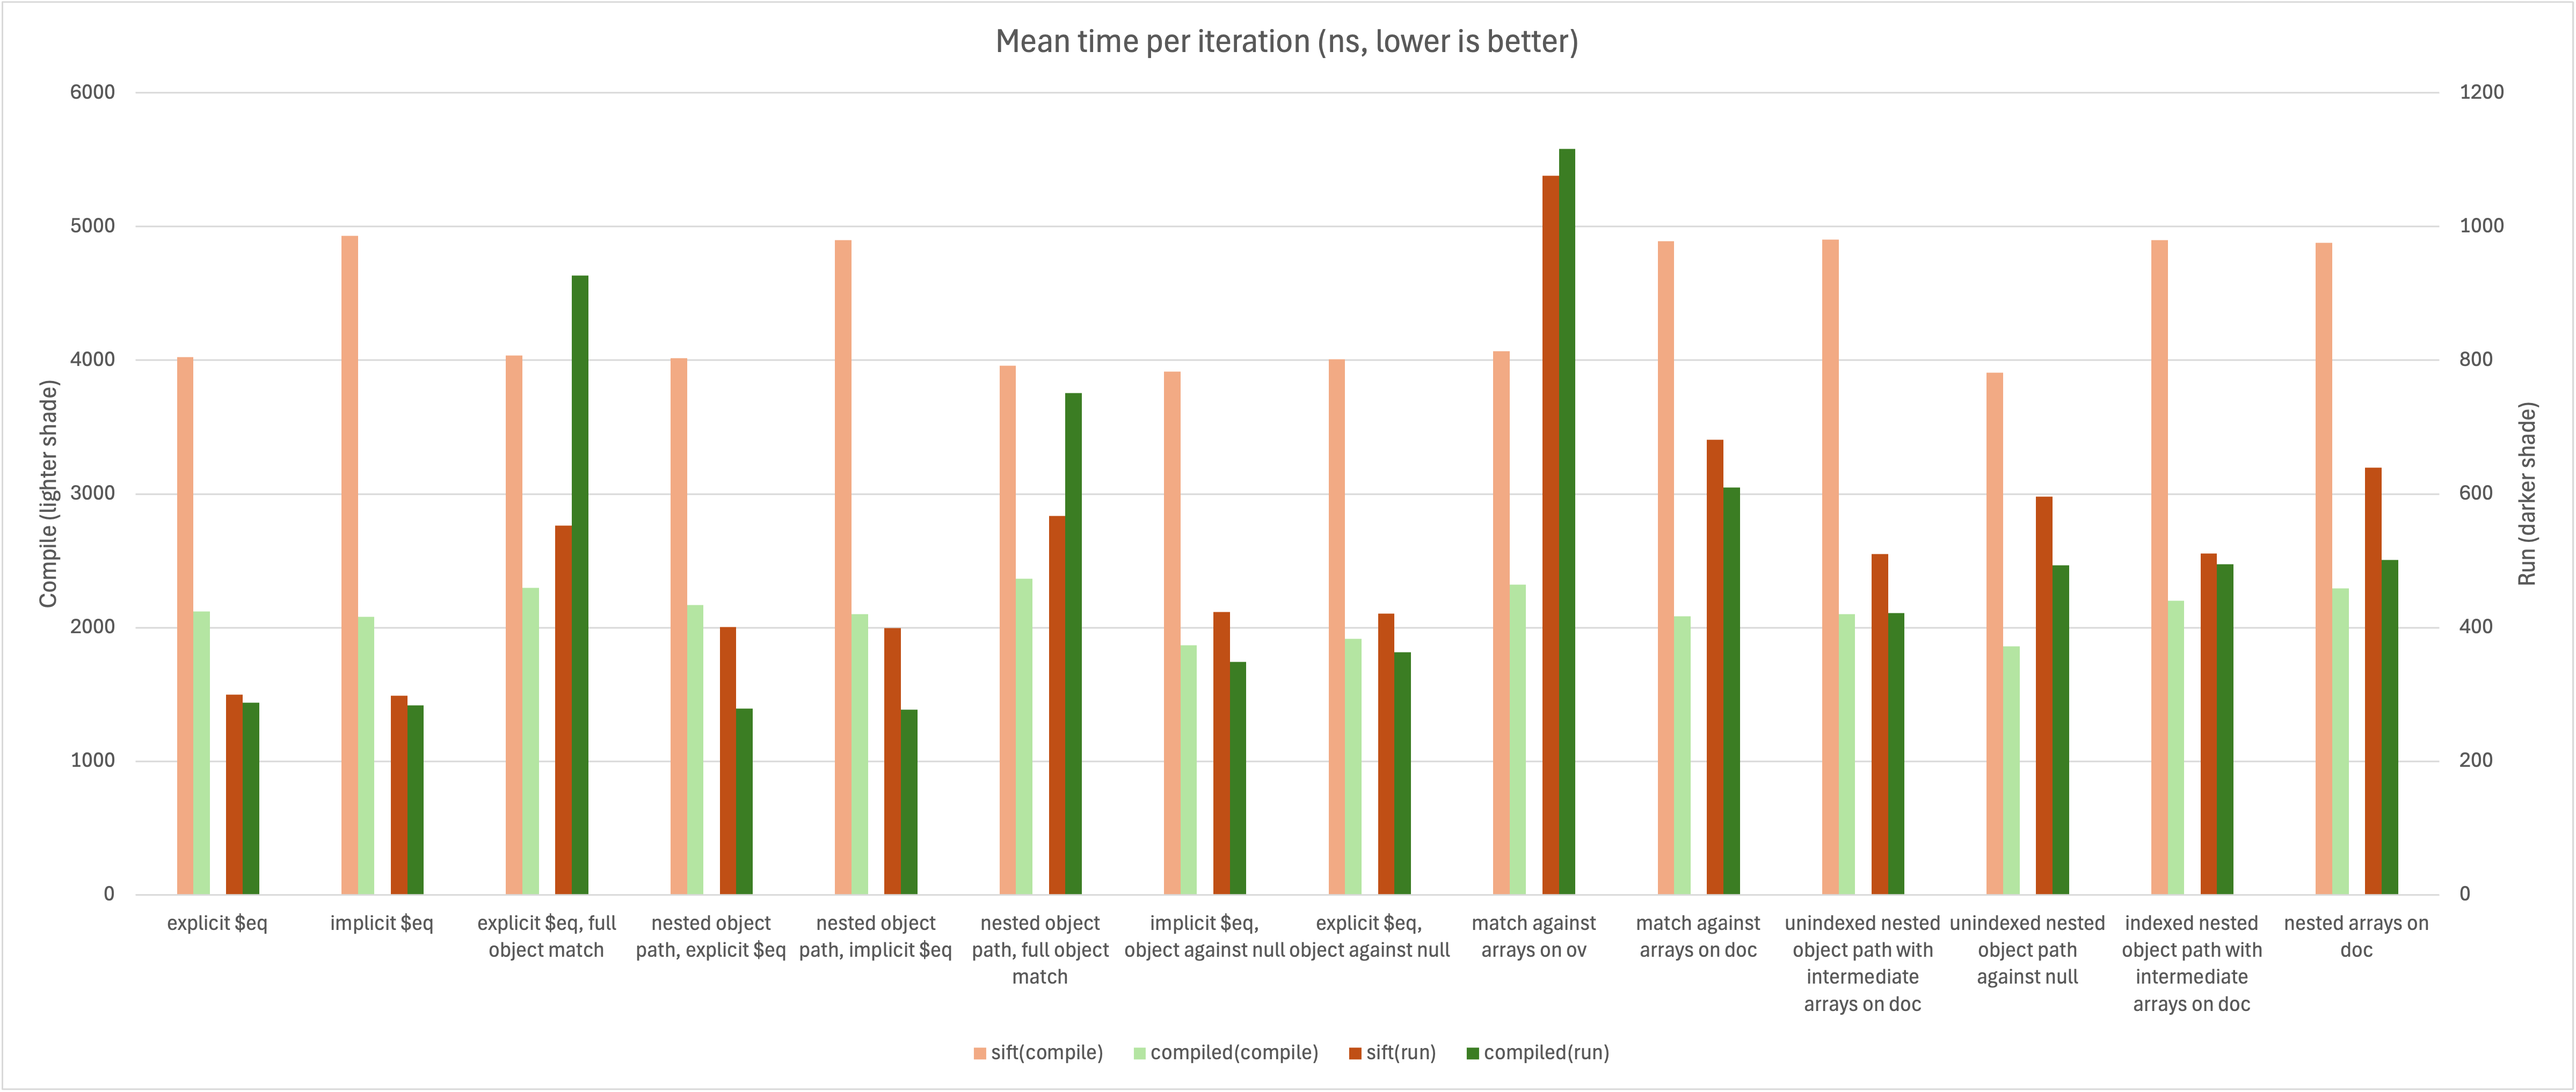
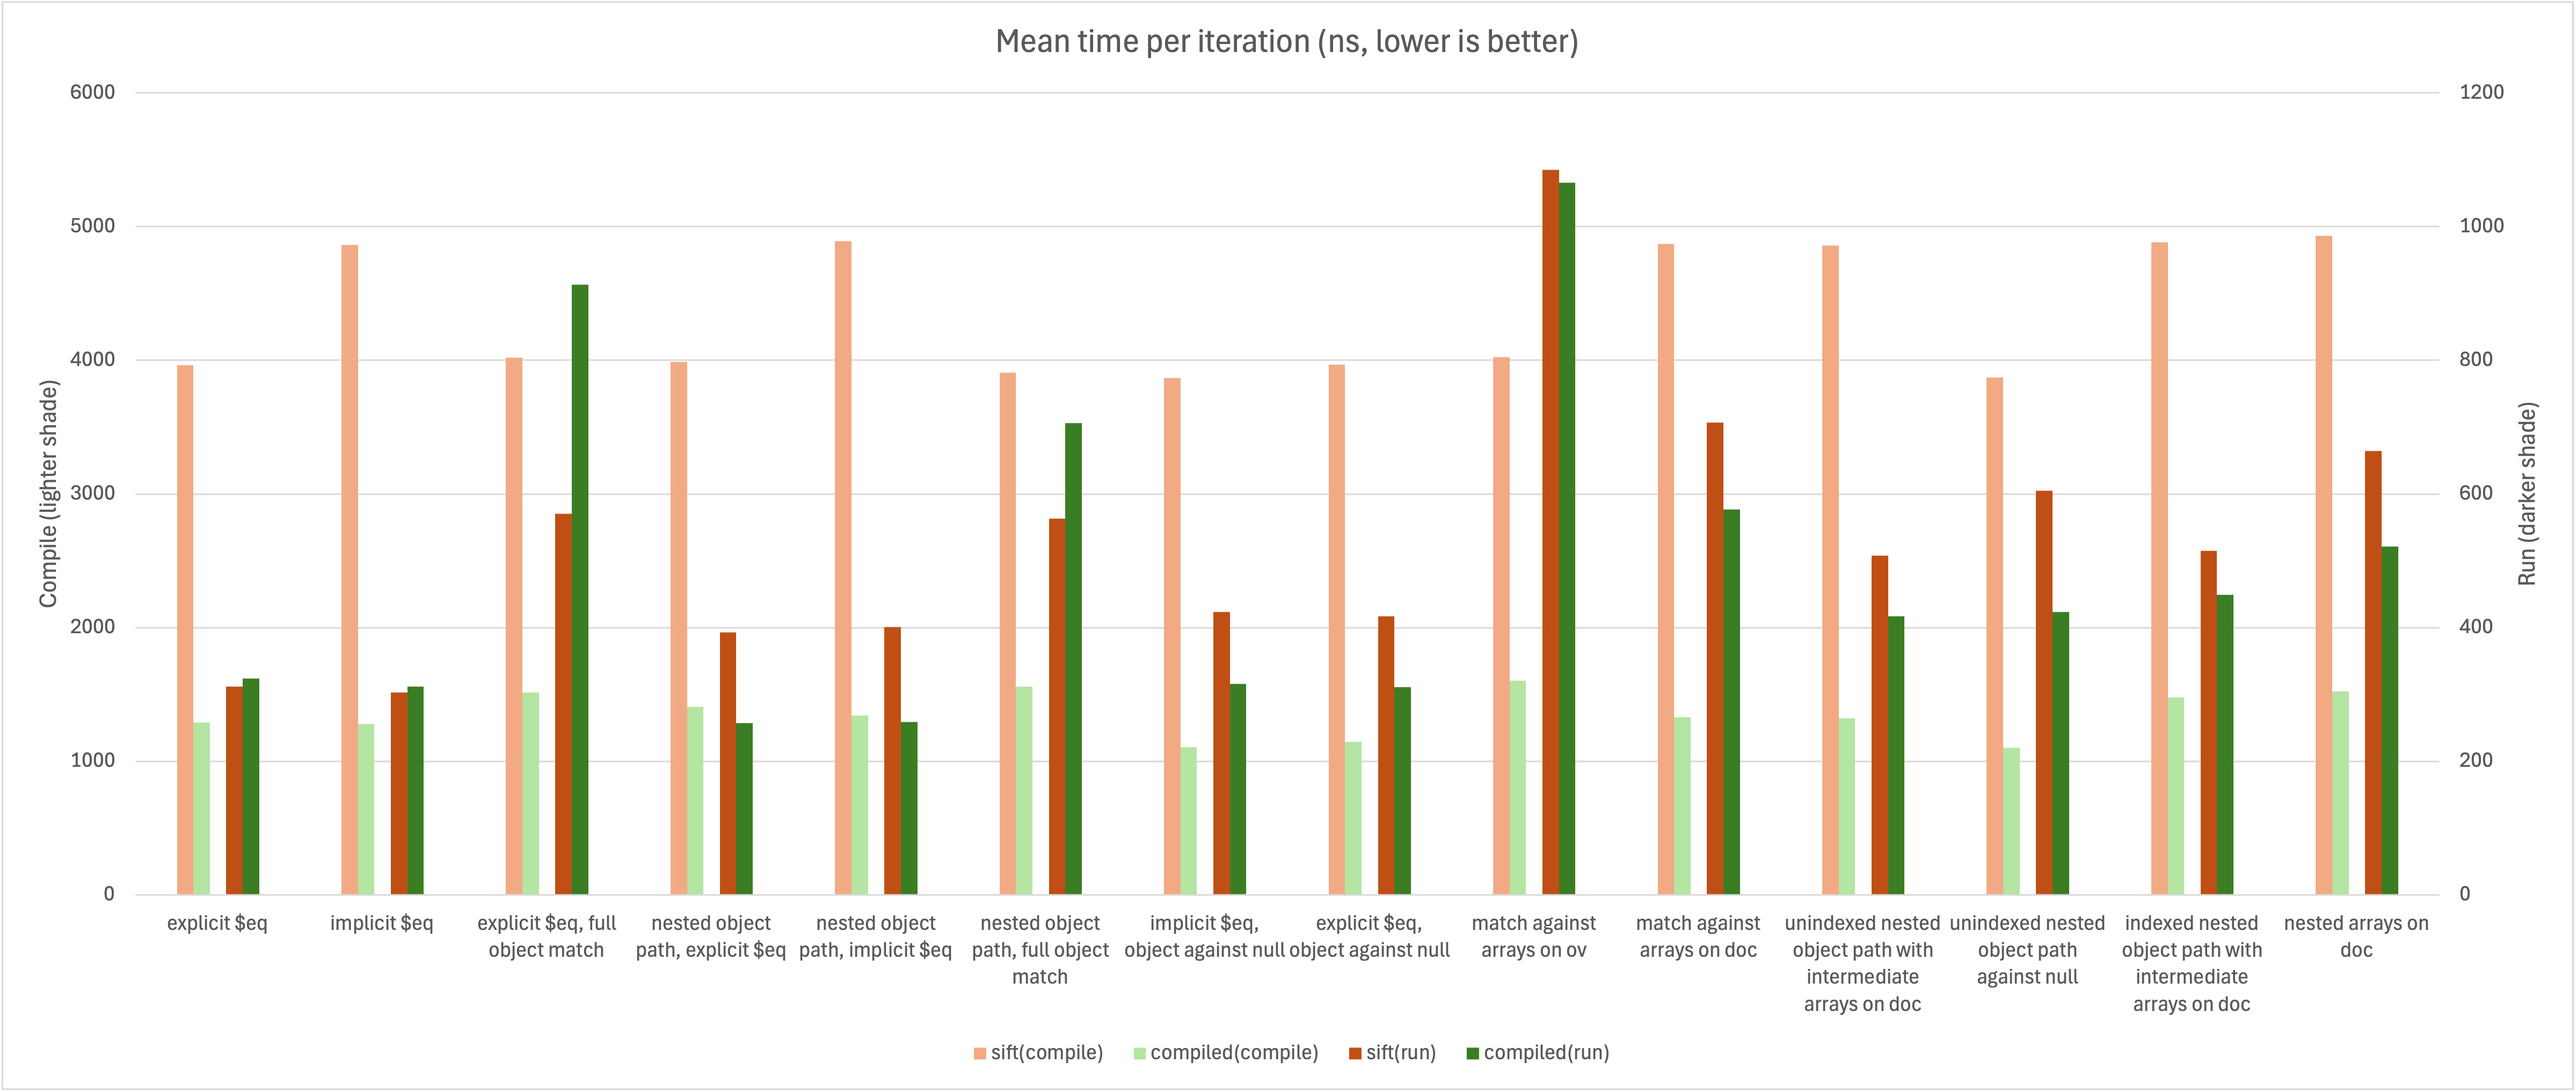
feat: faster compile with global deep compare

diff --git a/src/compiler.ts b/src/compiler.ts
@@ -29,8 +29,15 @@ import { deepCompare } from "./utils";
 /** Symbols */
 const docSym = "doc";
 const useStrictStr = '"use strict"; ';
-const deepCompareStr = deepCompare.toString() + "; ";
-const header = useStrictStr + deepCompareStr;
+if (typeof (globalThis as any).siftDeepCmp === "undefined") {
+	Object.defineProperty(globalThis, "siftDeepCmp", {
+		value: deepCompare,
+		enumerable: false,
+		writable: false,
+		configurable: false,
+	});
+}
+const header = useStrictStr;
 
 interface CompilerOptions {
 	/** Debug mode, dumps the function string into console */
@@ -117,9 +124,9 @@ function genEq(
 			`const ${eqSym} = ` +
 			genShallowCompare(safePath, ovs) +
 			` || ` +
-			`deepCompare(${docSym}, ${JSON.stringify(pathParts)}, ${ovs}); `;
+			`siftDeepCmp(${docSym}, ${JSON.stringify(pathParts)}, ${ovs}); `;
 	} else {
-		str += `const ${eqSym} = deepCompare(${docSym}, ${JSON.stringify(pathParts)}, ${ovs}); `;
+		str += `const ${eqSym} = siftDeepCmp(${docSym}, ${JSON.stringify(pathParts)}, ${ovs}); `;
 	}
 
 	return str;
